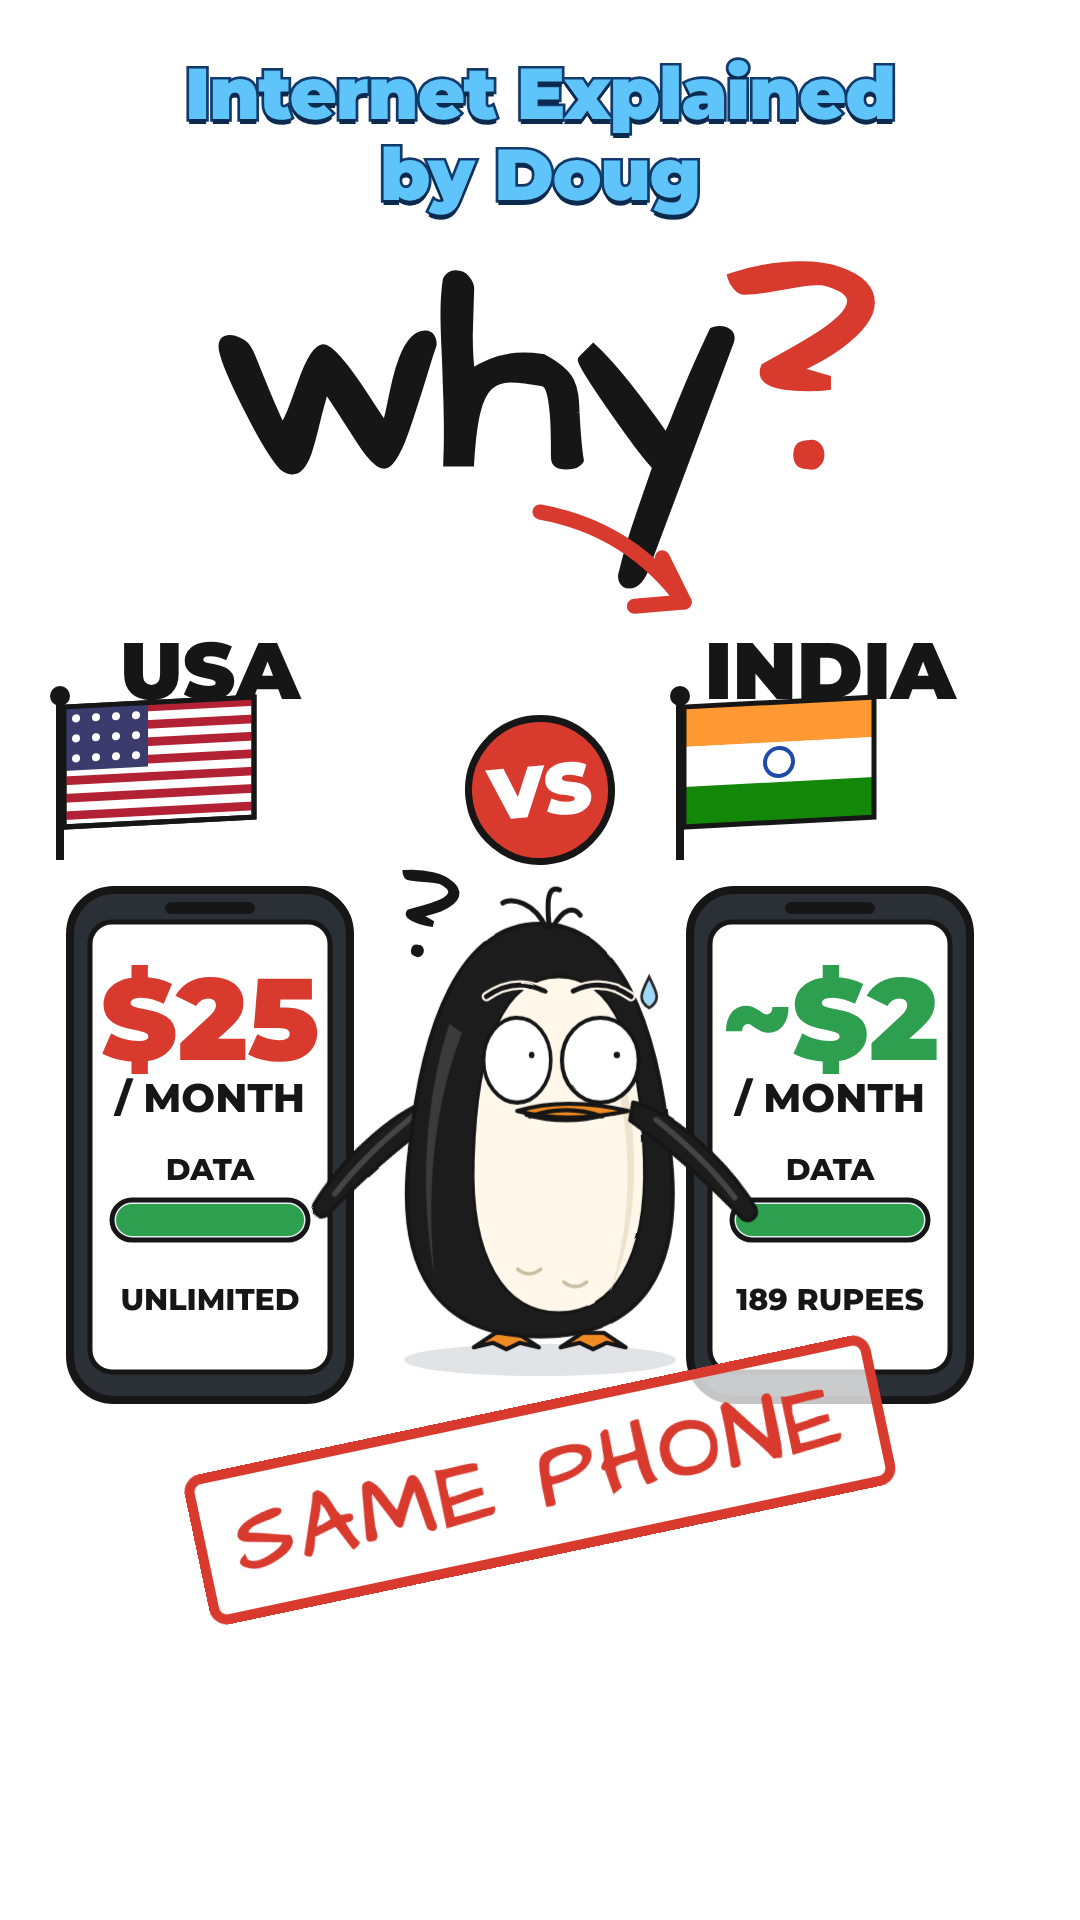
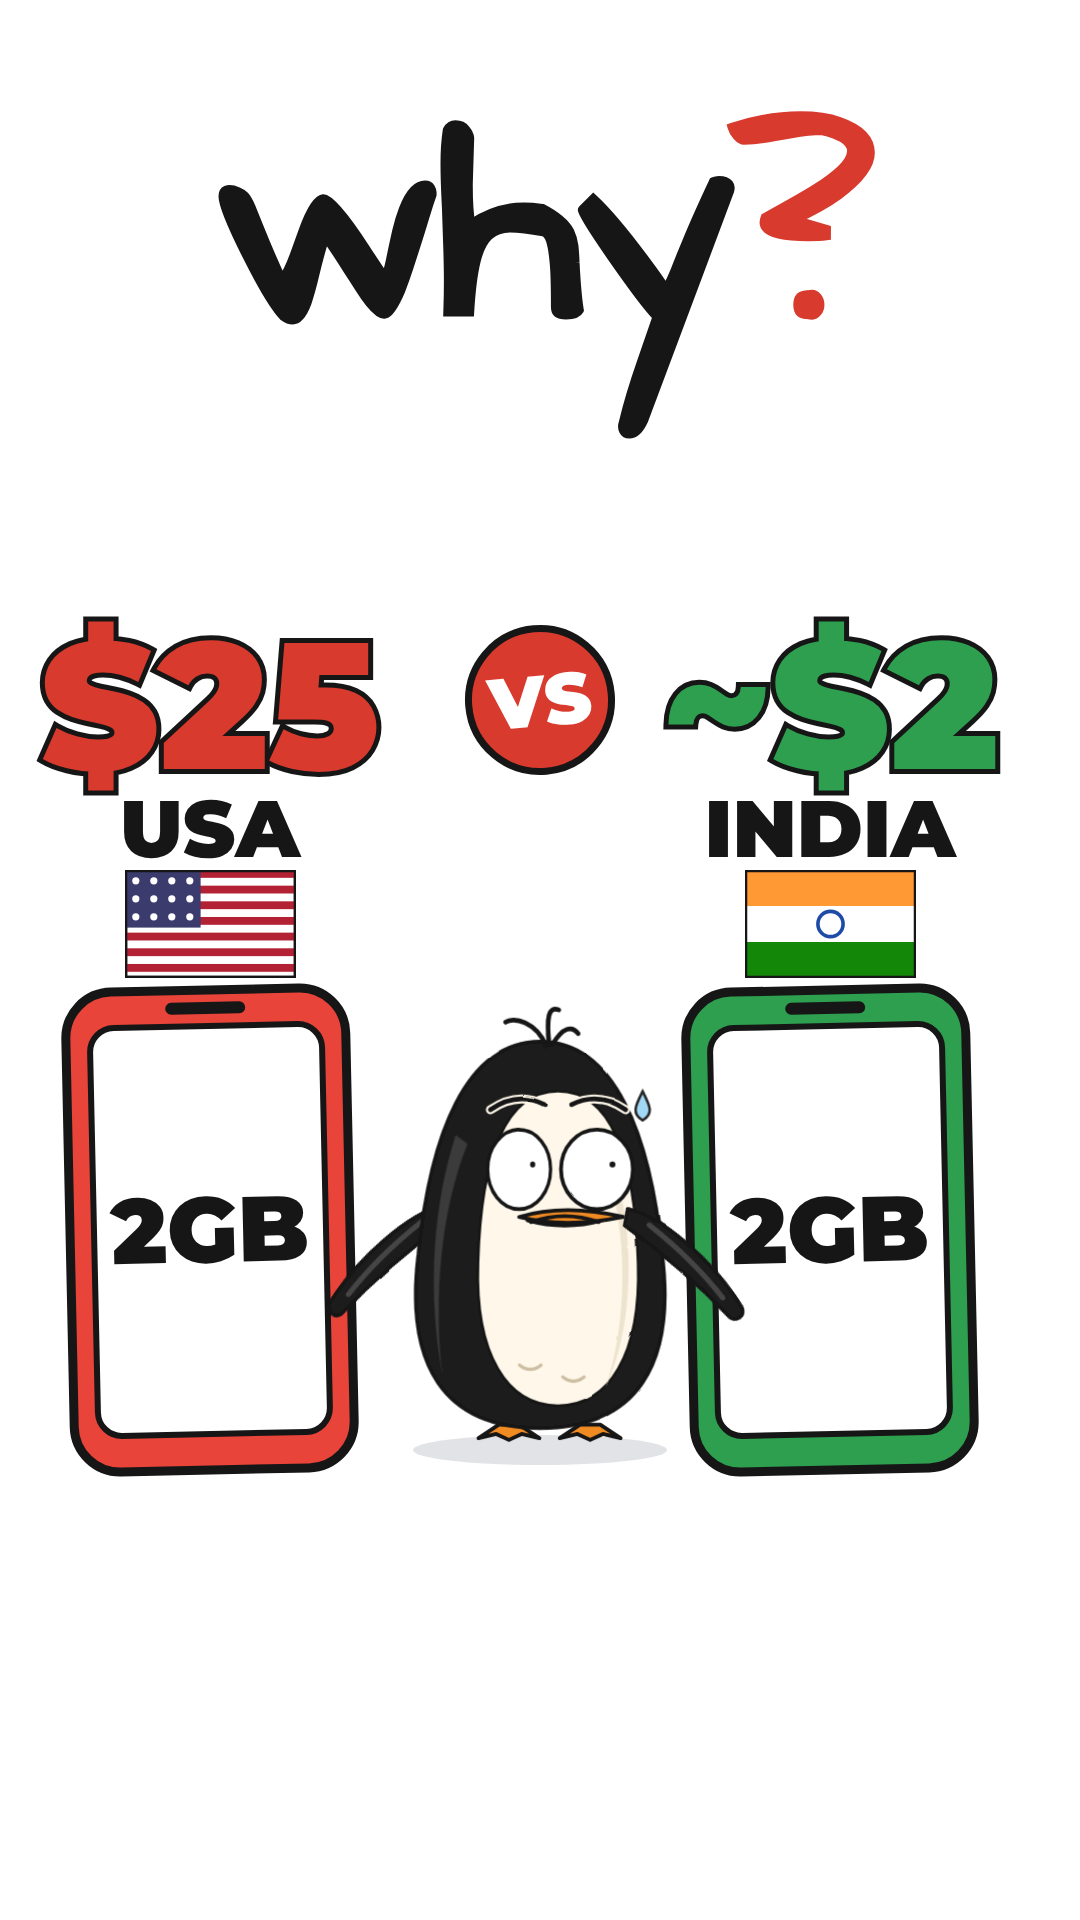
EP7 hook v2: simplified (price + 2GB phones, no title)
Claude-Session: https://claude.ai/code/session_01C6F6q3tiGoTng3TginQ7uG

Changed region(s): [[0.0306, 0.0312, 0.9472, 0.8438]]

diff --git a/studio/src/videos/dougInternet.tsx b/studio/src/videos/dougInternet.tsx
@@ -3,8 +3,7 @@ import React from 'react';
 import {AbsoluteFill, useCurrentFrame} from 'remotion';
 import {FPS, Fonts, HandFont} from '../base';
 import {INK, Penguin, onTwos} from '../penguin/rig';
-import {HookTitle, Stamp} from '../penguin/world';
-import {Arrow, G, GREEN, Label, Puzzled, RED, UsFlag, Vs, Why, cl, ease} from './dougVenezuela';
+import {G, GREEN, Label, RED, UsFlag, Vs, Why, ease} from './dougVenezuela';
 
 const InFlag = () => <g>
   <rect width={190} height={40} fill="#FF9933" /><rect y={40} width={190} height={40} fill="#fff" /><rect y={80} width={190} height={40} fill="#138808" />
@@ -12,40 +11,36 @@ const InFlag = () => <g>
   <rect width={190} height={120} fill="none" stroke={INK} strokeWidth={5} />
 </g>;
 
-// Phone with flag, big "$x / MONTH" on the screen and a data bar that fills (fill 0..1).
-const PhoneSign = ({x, y, price, flag, color, note, t, fill}: {x: number; y: number; price: string; flag: 'us' | 'in'; color: string; note: string; t: number; fill: number}) => {
-  const wave = Math.sin(t * 5) * 3;
-  return <svg width={420} height={760} viewBox="0 0 420 760" style={{position: 'absolute', left: x - 210, top: y - 760, overflow: 'visible'}}>
-    <line x1={60} y1={40} x2={60} y2={200} stroke={INK} strokeWidth={8} />
-    <circle cx={60} cy={36} r={10} fill={INK} />
-    <g transform={`translate(64 ${50 + wave}) skewY(${wave})`}>{flag === 'us' ? <UsFlag /> : <InFlag />}</g>
-    <rect x={70} y={230} width={280} height={510} rx={44} fill="#2B2F36" stroke={INK} strokeWidth={8} />
-    <rect x={90} y={262} width={240} height={450} rx={22} fill="#fff" stroke={INK} strokeWidth={5} />
-    <rect x={165} y={242} width={90} height={12} rx={6} fill={INK} />
-    <text x={210} y={400} textAnchor="middle" fontFamily="Montserrat" fontWeight={900} fontSize={price.length > 3 ? 96 : 116} fill={color}>{price}</text>
-    <text x={210} y={452} textAnchor="middle" fontFamily="Montserrat" fontWeight={800} fontSize={40} fill={INK}>/ MONTH</text>
-    <text x={210} y={520} textAnchor="middle" fontFamily="Montserrat" fontWeight={800} fontSize={30} fill={INK}>DATA</text>
-    <rect x={112} y={540} width={196} height={40} rx={20} fill="#E8EEF2" stroke={INK} strokeWidth={5} />
-    <rect x={116} y={544} width={Math.max(0, 188 * fill)} height={32} rx={16} fill={GREEN} />
-    <text x={210} y={650} textAnchor="middle" fontFamily="Montserrat" fontWeight={800} fontSize={30} fill={INK}>{note}</text>
+// Simple phone: just the GB amount (same on both sides). Price sits above it.
+const GbPhone = ({x, y, color, gb, t}: {x: number; y: number; color: string; gb: string; t: number}) =>
+  <svg width={320} height={500} viewBox="0 0 320 500" style={{position: 'absolute', left: x - 160, top: y - 500, overflow: 'visible', transform: `rotate(${Math.sin(t * 3) * 1.5}deg)`}}>
+    <rect x={20} y={10} width={280} height={480} rx={46} fill={color} stroke={INK} strokeWidth={9} />
+    <rect x={44} y={46} width={232} height={408} rx={24} fill="#fff" stroke={INK} strokeWidth={6} />
+    <rect x={120} y={22} width={80} height={12} rx={6} fill={INK} />
+    <text x={160} y={282} textAnchor="middle" fontFamily="Montserrat" fontWeight={900} fontSize={92} fill={INK}>{gb}</text>
   </svg>;
+const Price = ({text, x, y, color, at, t}: {text: string; x: number; y: number; color: string; at: number; t: number}) => {
+  const p = ease((t - at) / 0.3);
+  return <div style={{position: 'absolute', left: x - 260, width: 520, top: y, textAlign: 'center', fontFamily: 'Montserrat', fontWeight: 900, fontSize: 180, lineHeight: "230px", color, WebkitTextStroke: `10px ${INK}`, paintOrder: 'stroke fill', opacity: p, transform: `scale(${0.5 + 0.5 * p})`}}>{text}</div>;
 };
+const MiniFlag = ({x, y, flag}: {x: number; y: number; flag: 'us' | 'in'}) =>
+  <svg width={171} height={108} viewBox="0 0 190 120" style={{position: 'absolute', left: x - 85, top: y}}>{flag === 'us' ? <UsFlag /> : <InFlag />}</svg>;
 
 const SWING = 1.2, SAME = 2.0;
 const Hook = ({t}: {t: number}) => {
   const lookR = t >= SWING;
   return <>
-    <HookTitle lines={['Internet Explained', 'by Doug']} x={540} y={130} size={72} at={0.1} />
-    <Why t={t} />
-    <Label text="USA" x={210} y={622} at={0.3} t={t} />
-    <Label text="INDIA" x={830} y={622} at={SWING} t={t} />
-    <PhoneSign x={210} y={G + 120} price="$25" flag="us" color={RED} note="UNLIMITED" t={t} fill={ease((t - 0.4) / 1.4)} />
-    <PhoneSign x={830} y={G + 120} price="~$2" flag="in" color={GREEN} note="189 RUPEES" t={t} fill={ease((t - SWING) / 1.0)} />
-    <Arrow x={540} y={512} t={t} swingAt={SWING} />
-    <Vs x={540} y={790} t={t} />
-    <Puzzled x={392} y={830} t={t} />
-    <Penguin id="doug" x={540} y={G + 60} h={470} pose={{turn: lookR ? 0.5 : -0.5, look: [lookR ? 0.8 : -0.8, -0.3], brows: lookR ? 'shock' : 'worried', eyeScale: lookR ? 1.25 : 1.05, pupil: lookR ? 0.5 : 1, beak: 'frown', flapR: 35, flapL: 35, sweat: lookR}} />
-    <Stamp text="SAME PHONE" x={540} y={1480} at={SAME} color={RED} size={90} />
+    <div style={{position: "absolute", inset: 0, transform: "translateY(-150px)"}}><Why t={t} /></div>
+    <Price text="$25" x={210} y={590} color={RED} at={0.3} t={t} />
+    <Price text="~$2" x={830} y={590} color={GREEN} at={SWING} t={t} />
+    <Vs x={540} y={700} t={t} />
+    <Label text="USA" x={210} y={780} at={0.3} t={t} />
+    <Label text="INDIA" x={830} y={780} at={SWING} t={t} />
+    <MiniFlag x={210} y={870} flag="us" />
+    <MiniFlag x={830} y={870} flag="in" />
+    <GbPhone x={210} y={1480} color="#E8443A" gb="2GB" t={t} />
+    <GbPhone x={830} y={1480} color="#2E9E4F" gb="2GB" t={t} />
+    <Penguin id="doug" x={540} y={G + 150} h={440} pose={{turn: lookR ? 0.5 : -0.5, look: [lookR ? 0.8 : -0.8, -0.3], brows: lookR ? 'shock' : 'worried', eyeScale: lookR ? 1.25 : 1.05, pupil: lookR ? 0.5 : 1, beak: 'frown', flapR: 35, flapL: 35, sweat: lookR}} />
   </>;
 };
 
